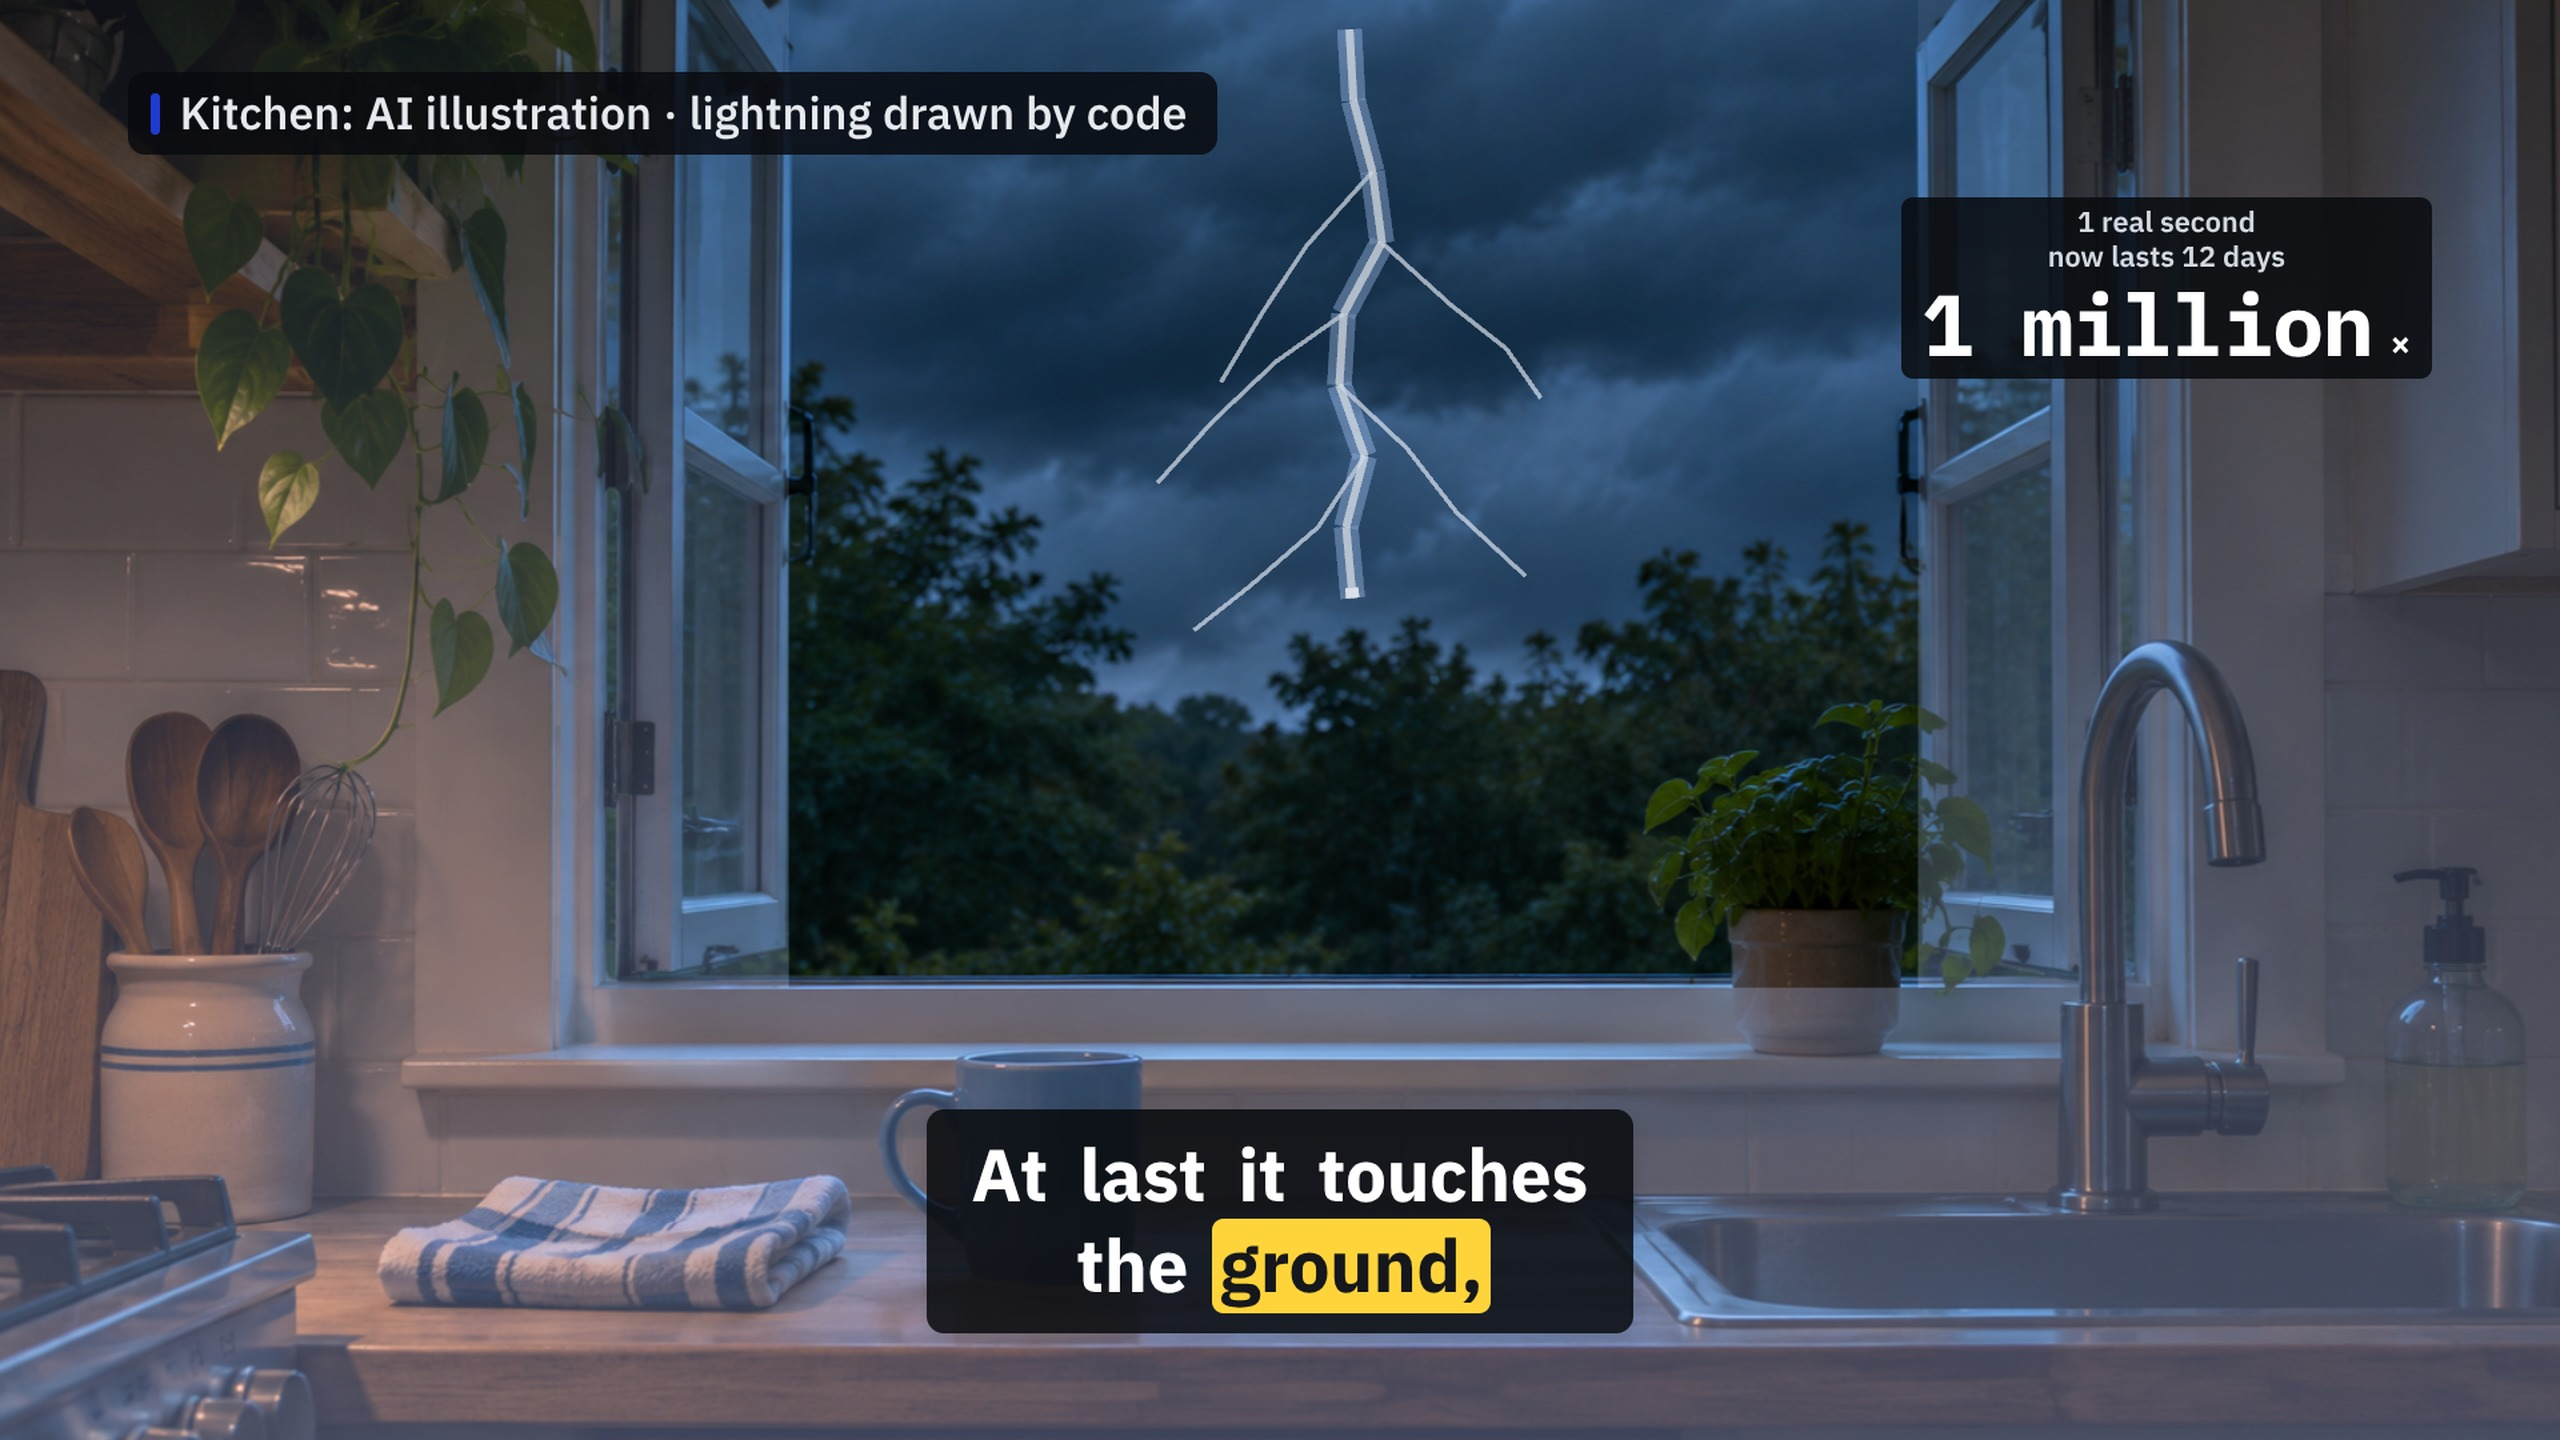
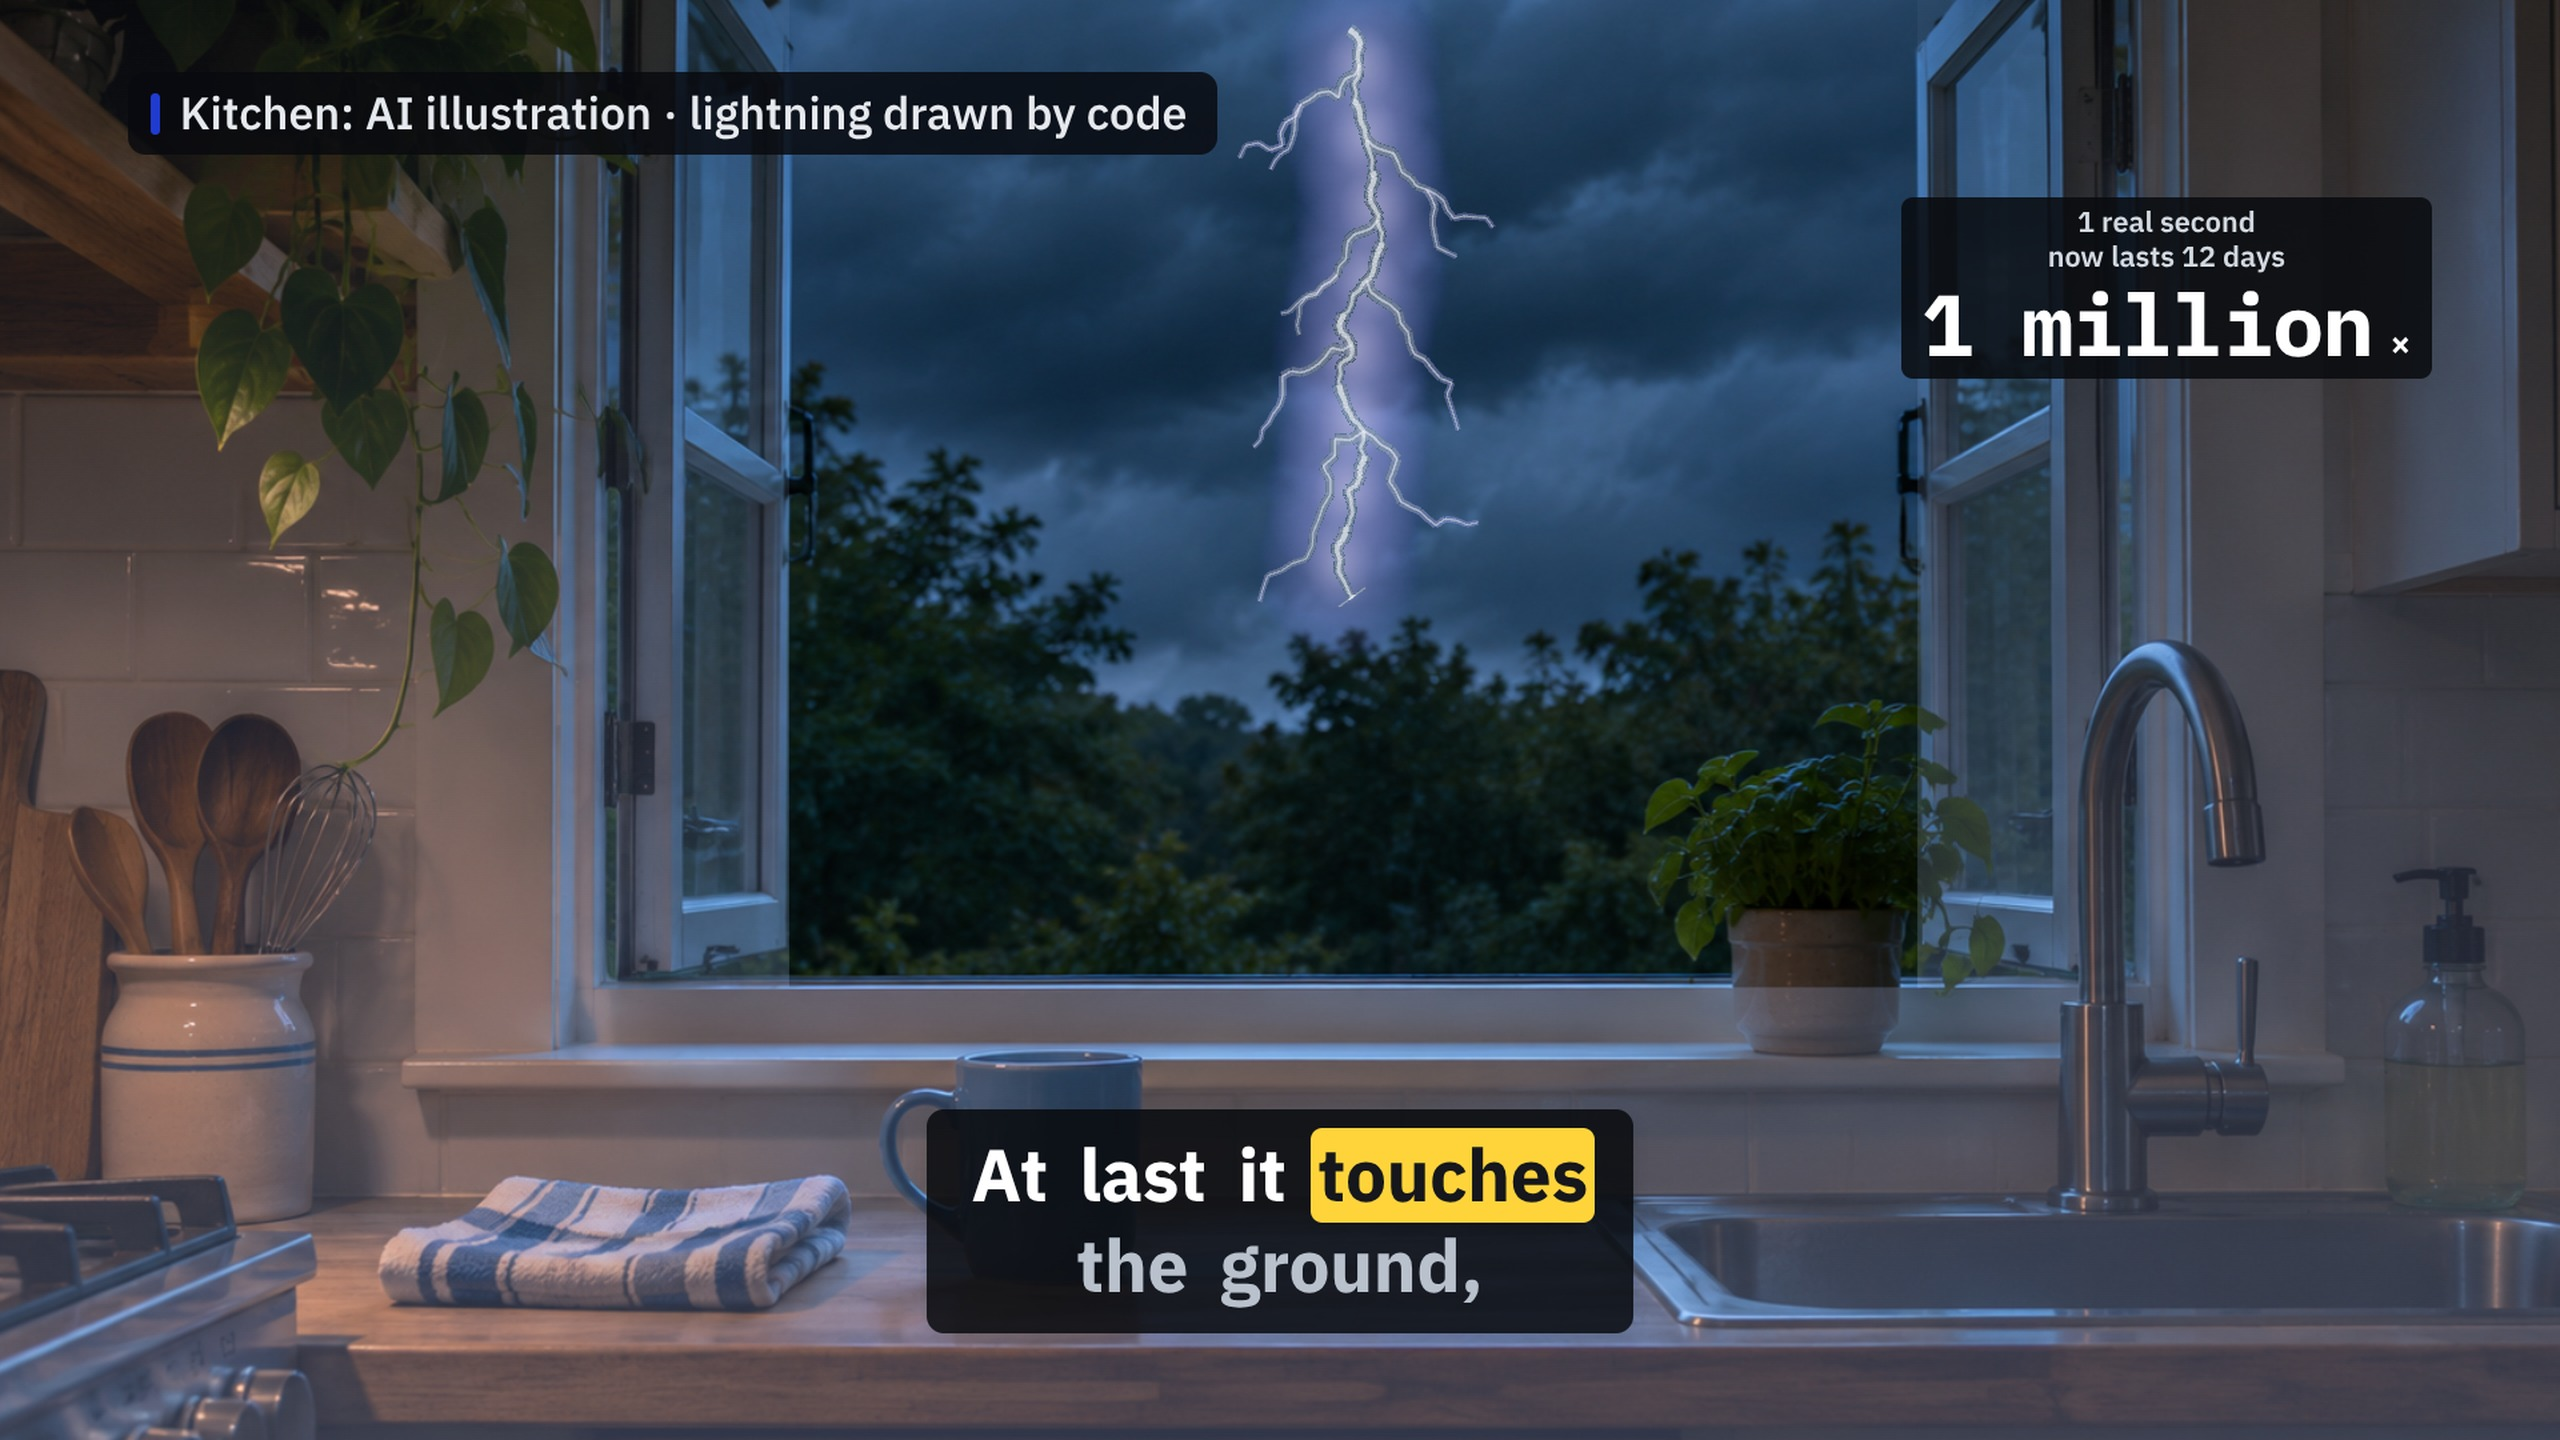
Lightning: fractal jagged channel with a hot core, violet halo, branches, lit clouds, overexposed return stroke; window frame masked in front of the bolt; 150 ms relight pulse
Claude-Session: https://claude.ai/code/session_0192s8Y3nHgGCCsvNARxNLPn

Changed region(s): [[0.4688, 0.0, 0.5938, 0.4375], [0.4062, 0.7812, 0.625, 0.9375]]

diff --git a/films/channels/physics/set/plates.js b/films/channels/physics/set/plates.js
@@ -81,10 +81,18 @@ export const createPlates = ({ scene, camera, W, H, FILM, canvas }) => {
   })).catch(() => {});
   // the flash on a storm plate: a screen-blended canvas over the plate (below the 3-D layer), bluish light that falls off toward the top, with the glass of the window cut out so only the room is lit
   const rl = document.createElement("canvas"); rl.width = W; rl.height = H; rl.style.cssText = `position:absolute;left:0;top:0;width:${W}px;height:${H}px;mix-blend-mode:screen;display:none;pointer-events:none;`; let rlOn = false;
-  const relight = (t, k) => { const it = active(t), r = it && it.p.relight; if (!r || k < 0.004) { if (rlOn) { rl.style.display = "none"; rlOn = false; } return; }
+  // the window frame stays in front of the bolt: a copy of the plate with the glass cut out sits above the 3-D layer (same placement, same relight)
+  const fgc = document.createElement("canvas"); fgc.width = W; fgc.height = H; fgc.style.cssText = `position:absolute;left:0;top:0;width:${W}px;height:${H}px;z-index:2;display:none;pointer-events:none;`; let fgOn = false;
+  const drawFg = (it, t, k) => { const r = it.p.relight, im = it.imgs[0]; if (!r || !im || !im.naturalWidth) return; if (!fgc.parentNode) canvas.parentNode.insertBefore(fgc, canvas.nextSibling);
+    const pw = im.naturalWidth, ph = im.naturalHeight, cs = Math.max(W / pw, H / ph), sf = shiftAt(it, t), x0 = (W - pw * cs) / 2 - sf.x * sf.ppm * cs, y0 = (H - ph * cs) / 2 + sf.y * sf.ppm * cs, d = Math.max(0, Math.min(1, (t - it.p.t0) / (it.p.t1 - it.p.t0))), zz = 1 + (it.p.push ?? 0.05) * d, a = Math.max(0, Math.min(1, Math.min((t - it.p.t0) / (it.p.fade ?? 0.35), (it.p.t1 - t) / (it.p.fade ?? 0.35))));
+    const g = fgc.getContext("2d"); g.setTransform(1, 0, 0, 1, 0, 0); g.globalCompositeOperation = "source-over"; g.clearRect(0, 0, W, H); g.globalAlpha = a; g.translate(W / 2, H / 2); g.scale(zz, zz); g.translate(-W / 2, -H / 2); g.drawImage(im, x0, y0, pw * cs, ph * cs);
+    if (k > 0.004) { g.globalCompositeOperation = "screen"; const gr = g.createLinearGradient(0, y0, 0, y0 + ph * cs); gr.addColorStop(0, `rgba(${r.color.join(",")},${0.08 * k})`); gr.addColorStop(1, `rgba(${r.color.join(",")},${0.5 * k})`); g.fillStyle = gr; g.fillRect(0, 0, W, H); }
+    g.globalCompositeOperation = "destination-out"; g.globalAlpha = 1; g.fillStyle = "#000"; for (const poly of r.glass) { g.beginPath(); poly.forEach(([x, y], i) => (i ? g.lineTo(x0 + x * cs, y0 + y * cs) : g.moveTo(x0 + x * cs, y0 + y * cs))); g.closePath(); g.fill(); }
+    g.setTransform(1, 0, 0, 1, 0, 0); g.globalCompositeOperation = "source-over"; fgc.style.display = "block"; fgOn = true; };
+  const relight = (t, k) => { const it = active(t), r = it && it.p.relight; if (!r) { if (fgOn) { fgc.style.display = "none"; fgOn = false; } return; } drawFg(it, t, k); if (k < 0.004) { if (rlOn) { rl.style.display = "none"; rlOn = false; } return; }
     if (!rl.parentNode) canvas.parentNode.insertBefore(rl, canvas); const g = rl.getContext("2d"), sf = shiftAt(it, t), cs = Math.max(W / (it.imgs[0].naturalWidth || 1672), H / (it.imgs[0].naturalHeight || 941)), pw = it.imgs[0].naturalWidth, ph = it.imgs[0].naturalHeight;
     const zz = 1 + (it.p.push ?? 0.05) * Math.max(0, Math.min(1, (t - it.p.t0) / (it.p.t1 - it.p.t0))), X = (x) => W / 2 + (x - pw / 2) * cs * zz - sf.x * sf.ppm * cs * zz * 0, Y = (y) => H / 2 + (y - ph / 2) * cs * zz;
-    g.clearRect(0, 0, W, H); const gr = g.createLinearGradient(0, Y(0), 0, Y(ph)); gr.addColorStop(0, `rgba(${r.color.join(",")},${0.08 * k})`); gr.addColorStop(1, `rgba(${r.color.join(",")},${0.36 * k})`);
+    g.clearRect(0, 0, W, H); const gr = g.createLinearGradient(0, Y(0), 0, Y(ph)); gr.addColorStop(0, `rgba(${r.color.join(",")},${0.08 * k})`); gr.addColorStop(1, `rgba(${r.color.join(",")},${0.5 * k})`);
     g.fillStyle = gr; g.fillRect(0, 0, W, H); g.globalCompositeOperation = "destination-out"; g.fillStyle = "#000"; for (const poly of r.glass) { g.beginPath(); poly.forEach(([x, y], i) => (i ? g.lineTo(X(x), Y(y)) : g.moveTo(X(x), Y(y)))); g.closePath(); g.fill(); } g.globalCompositeOperation = "source-over";
     rl.style.display = "block"; rlOn = true; };
   const active = (t) => { for (const it of items) if (it.ok && t >= it.p.t0 && t < it.p.t1) return it; return null; };
@@ -92,6 +100,7 @@ export const createPlates = ({ scene, camera, W, H, FILM, canvas }) => {
   const shiftAt = (it, t) => { const p = it.p, d = Math.max(0, Math.min(1, (t - p.t0) / (p.t1 - p.t0))), sh = nine && p.shift9 ? p.shift9 : p.shift; if (!sh) return { x: 0, y: 0, ppm: 1 }; const k = nine && p.shift9 && !p.native9 ? 1 : d; return { x: sh.x * k, y: (sh.y || 0) * d, ppm: sh.ppm }; };   // a native 9:16 picture fills the frame exactly: its shift grows with the push, so no edge ever shows
   const apply = (t) => {
     for (const it of items) { for (const im of it.imgs) im.style.display = "none"; if (it.swapImg) it.swapImg.style.display = "none"; }
+    if (fgOn) { fgc.style.display = "none"; fgOn = false; }
     const it = active(t); if (!it) return false;
     const p = it.p, d = Math.max(0, Math.min(1, (t - p.t0) / (p.t1 - p.t0))), f = p.fade ?? 0.35;
     const a = Math.min(1, (t - p.t0) / f, (p.t1 - t) / f), push = p.push ?? 0.05, par = p.parallax ?? 0.02;

diff --git a/films/channels/physics/lf01/build.py b/films/channels/physics/lf01/build.py
@@ -324,7 +324,7 @@ _p07 = {"id": "storm", "file": PLATE07, "file9": PLATE07_9, "push": 0.05, "paral
         "relight": {"color": [170, 190, 255], "glass": [[[525, 0], [1240, 0], [1240, 640], [525, 640]]]},
         "anchor": {"dark": True, "rig": {"kind": "storm", "pos": _w(880, 40), "scale": 0.0312, "thk": 1.25}},
         "p9": {"native9": True, "cam3": {"pos": [0, 0.4, 0], "target": [0, 0.396, -1], "fov": 40.1},
-               "relight": {"color": [170, 190, 255], "glass": [[[63, 145], [489, 145], [489, 606], [63, 606]]]},
+               "relight": {"color": [170, 190, 255], "glass": [[[73, 141], [272, 141], [272, 329], [73, 329]], [[284, 141], [485, 141], [485, 329], [284, 329]], [[66, 355], [491, 355], [491, 606], [66, 606]]]},
                "anchor": {"dark": True, "rig": {"kind": "storm", "pos": _w7(270, 165), "scale": 0.0418, "thk": 1.25}}}}
 PLATE01 = "../lf01/art/owner/plates/plate-01-wide-16x9.png"
 PLATE01_9 = "../lf01/art/owner/plates/plate-01-wide-9x16.png" if (HERE / "art/owner/plates/plate-01-wide-9x16.png").exists() else PLATE01
